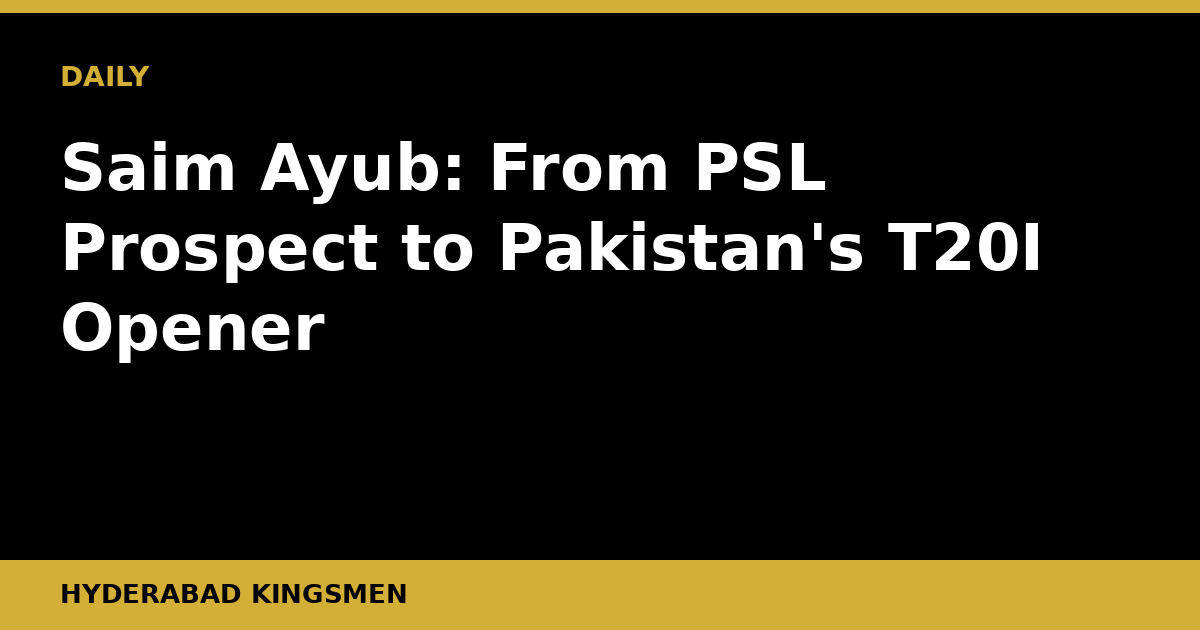
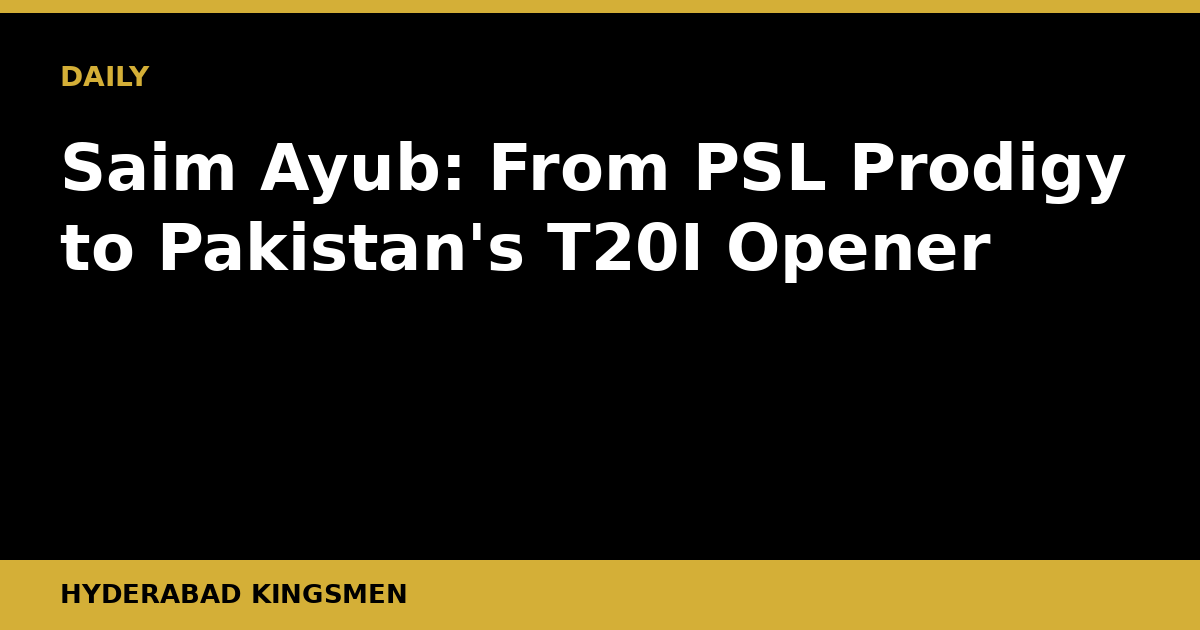
Daily post 2026-09-13

Changed region(s): [[0.0617, 0.3317, 0.8633, 0.4524], [0.0308, 0.4825, 0.2775, 0.573], [0.7092, 0.2111, 0.9558, 0.3317]]

diff --git a/content/posts/saim-ayub-psl-to-pakistan-t20i-opener-scouting-report.md b/content/posts/saim-ayub-psl-to-pakistan-t20i-opener-scouting-report.md
@@ -1,49 +1,47 @@
 ---
-title: "Saim Ayub: From PSL Prospect to Pakistan's T20I Opener"
+title: "Saim Ayub: From PSL Prodigy to Pakistan's T20I Opener"
 slug: "saim-ayub-psl-to-pakistan-t20i-opener-scouting-report"
-date: "2026-08-08T02:51:55+05:00"
+date: "2026-09-13T05:32:27+05:00"
 draft: false
-description: "Saim Ayub has gone from exciting PSL talent to a genuine fixture at the top of Pakistan's T20I order. Here is how he got there, and what comes next."
+description: "Saim Ayub has made the leap from PSL standout to Pakistan's preferred T20I opener. Here is a full scouting report on what makes him tick."
 banner: "/banners/saim-ayub-psl-to-pakistan-t20i-opener-scouting-report.png"
 kicker: "ANALYSIS"
 author: "Hyderabad Kingsmen"
 translationKey: "saim-ayub-psl-to-pakistan-t20i-opener-scouting-report"
-tags: ["pakistan-cricket", "psl", "t20i", "saim-ayub", "pakistan-batting", "player-analysis"]
+tags: ["pakistan-cricket", "psl", "t20i", "saim-ayub", "pakistan-batting", "scouting-report", "batting-analysis"]
 categories: ["Analysis"]
 ---
 
-Saim Ayub is no longer a prospect. At 22, the left-hander from Karachi has forced his way into Pakistan's T20I setup as a first-choice opener, and the manner of his arrival tells you something important about where Pakistan's white-ball batting is headed.
+Saim Ayub's ascent through Pakistan's batting ranks has been one of the more compelling stories in recent domestic cricket. A left-handed opener who first turned heads in the PSL, he has now cemented himself at the top of Pakistan's T20I order, and the question is no longer whether he belongs there, but how far he can go.
 
-## The Real Story: A Selector's Gamble That Paid Off
+## The Real Story: A Left-Hander Who Changes the Equation
 
-For years, Pakistan's T20I top order has been a revolving door of senior names and tentative experiments. Saim's elevation was different. The selectors handed him a genuine run at the top, trusted him through a few early wobbles, and the investment has started to pay dividends. That is not the norm in Pakistan cricket, where patience with young batters is often rationed in very small doses.
+For years, Pakistan's T20I top order leaned heavily on right-handed batters. Saim's arrival disrupts that orthodoxy. A left-right combination at the top creates immediate headaches for opposition captains, forcing bowling changes and field adjustments inside the powerplay. That structural advantage alone would justify his selection, but Saim offers considerably more than geometry.
 
-The key to understanding Saim is that he does not bat like a man auditioning for his place. He attacks from the first over, holds his shape against pace, and — this is the part that gets PSL scouts animated — reads the field early enough to find gaps rather than just hitting the ball hard and hoping.
+His game is built on aggression through the off side. He drives hard, both on the up and along the ground, and he is willing to go aerial early. What separates him from other stroke-making youngsters is his ability to hit against the spin of the ball, particularly through covers and mid-off, without losing balance. Left-handers who can do that against right-arm pace in the first six overs are rare commodities. Pakistan cricket has not had a batter quite like him in that slot since the prime years of Imran Farhat, though Saim's tempo is considerably higher.
 
 ## The PSL Foundation
 
-Saim built his reputation across multiple PSL seasons before the national call-up, most visibly as an aggressive top-order bat comfortable against both pace and spin on Pakistani surfaces. PSL watchers noticed a couple of things early: his trigger movement is minimal and decisive, which gives him more time than his aggressive intent suggests, and he does not get rattled by bouncers the way some young left-handers do.
+Saim's PSL record is where the foundation was built. Playing in the hard, competitive environment of the PSL, where international bowlers operate at full intensity, sharpened his instincts quickly. He learned to read length early, which is non-negotiable for an opener who wants to attack from ball one. His foot movement, especially the stride into the pitch against fuller deliveries, suggests solid coaching and genuine cricket intelligence.
 
-His footwork against spin is particularly relevant. Pakistan's T20I schedule includes plenty of sub-continental conditions where wrist-spinners set the template, and Saim's ability to use his feet and hit over the top against quality spin — rather than sweeping his way out of trouble — marks him as a different kind of option at the top.
+His PSL performances revealed a batter who can score at a strike rate well above 140 while maintaining a respectable average, a balance many young attackers fail to find. The combination matters enormously in T20 cricket. High strike rate with low average means you are flashy but fragile. Saim has shown he can post match-winning scores, not just cameos.
 
-His PSL performances also underlined one important vulnerability: he can be drawn into drives outside off-stump when he is searching for timing early in an innings. Franchises who had done their homework set plans around that channel. International bowlers will test it relentlessly.
+## Vulnerabilities Worth Watching
 
-## What the Numbers Suggest (And What They Do Not)
+No scouting report is honest without acknowledging the gaps. Saim has shown vulnerability against quality short-pitched bowling directed at his body, particularly from right-arm quicks angling the ball into the left-hander. He can get cramped when a bowler consistently targets the armpit channel. More experienced T20I attacks will test this relentlessly once the data catches up.
 
-Raw T20I strike rates and averages for a batter this early in his international career are better treated as directional signals than verdicts. What matters is the context: Saim has shown the ability to accelerate through an innings rather than just starting fast and then consolidating, which is exactly what Pakistan's middle order needs from its opener. When the top order scores quickly, the likes of Babar Azam and Mohammad Rizwan can play their own games without the pressure of compensating for a slow start. That dynamic alone makes Saim's role structurally important beyond his personal numbers.
+His record against wrist spin in the powerplay also deserves scrutiny. Left-arm orthodox bowlers give him less trouble because he reads the spin direction more comfortably. But a quality leg-spinner or googly bowler operating around the wicket, dragging the ball away from him, can create doubt. In the Asia Cup and ICC event contexts, that is a real concern given the quality of wrist spin in the subcontinent and beyond.
 
-The concern is consistency across conditions. South Africa's length, England's swing, and Australian pace are different problems from what he faces in PSL or home T20Is. The upcoming months will be revealing.
+Mentally, he is still learning to manage the pressure of anchoring an innings when early wickets fall. When Saim is in full flow, he is electric. When he has had to rebuild, the results have been more mixed. That is a maturity question that only experience can answer.
 
-## Going Forward: Three Questions That Will Define His Career
+## What This Means Going Forward
 
-First, can he convert starts into match-winning scores? Several of his T20I knocks have been brisk contributions in the 30-40 range. Pakistan needs him to push past those and take ownership of finishes.
+For Pakistan's T20I setup, Saim's establishment at the top of the order provides a platform Babar Azam and the middle order can build on. The aim must be to give him a sustained run, resist the temptation to drop him after a couple of low scores, and allow his game to develop against diverse international attacks.
 
-Second, will he get the opportunity in Test or ODI cricket? His first-class record suggests the talent is there for longer formats. The PCB and national selectors have a habit of pigeonholing young batters into one format early, sometimes prematurely. Saim deserves the chance to prove himself across formats before that door closes.
-
-Third, how does he handle the weight of expectation now that he is an established name rather than a surprise package? Bowlers will have footage. Plans will be ready. The next chapter of Saim Ayub's career will be written against opponents who know exactly what he likes to do.
+The ICC T20 World Cup cycle is always the backdrop to squad conversations in Pakistan cricket. Saim is young enough to grow into that stage and experienced enough now not to be overwhelmed by it. If his body holds up and the selectors back him consistently, he has the raw material to be Pakistan's first-choice T20I opener for the next five years.
 
 ## What to Watch Next
 
-Pakistan's next bilateral T20I series will be the clearest test. Watch specifically how Saim handles the first six overs against moving ball, and whether opposition captains successfully cramp him for room by setting mid-off and extra cover inside the ring. If he finds solutions to those plans, the conversation around him shifts from 'promising' to 'settled international batter.' That is a significant threshold, and he looks capable of crossing it.
+The immediate tests will come against quality seam attacks in away conditions, where the bounce is truer and the margin for error against the short ball is smaller. Watch how he responds when bowlers go around the wicket and target that armpit channel early. Watch also whether he develops a counter-attack against wrist spin, because that will determine whether he is a good T20I opener or a great one.
 
-For PSL followers, the broader lesson is encouraging: the franchise circuit is producing batters who can step into international cricket without a lengthy adjustment period. Saim Ayub is the clearest evidence of that pipeline working as it should.
+Saim Ayub is a genuine talent. Pakistan cricket does not produce left-handed attacking openers of his type every generation. Developing him properly is one of the most important jobs the team management has right now.
